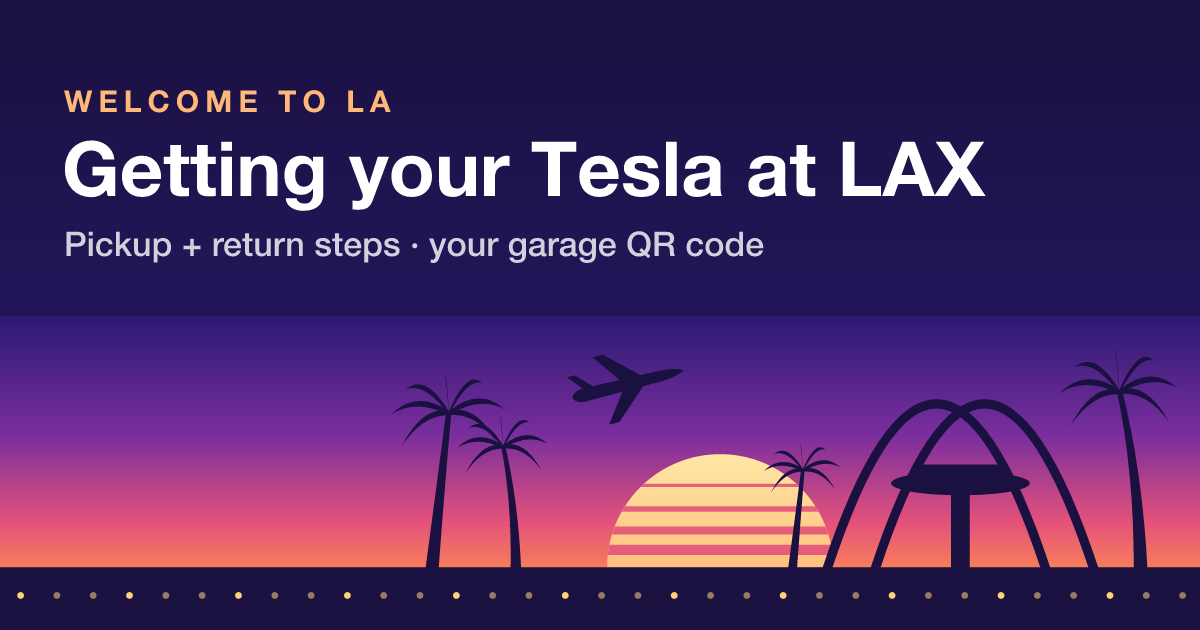
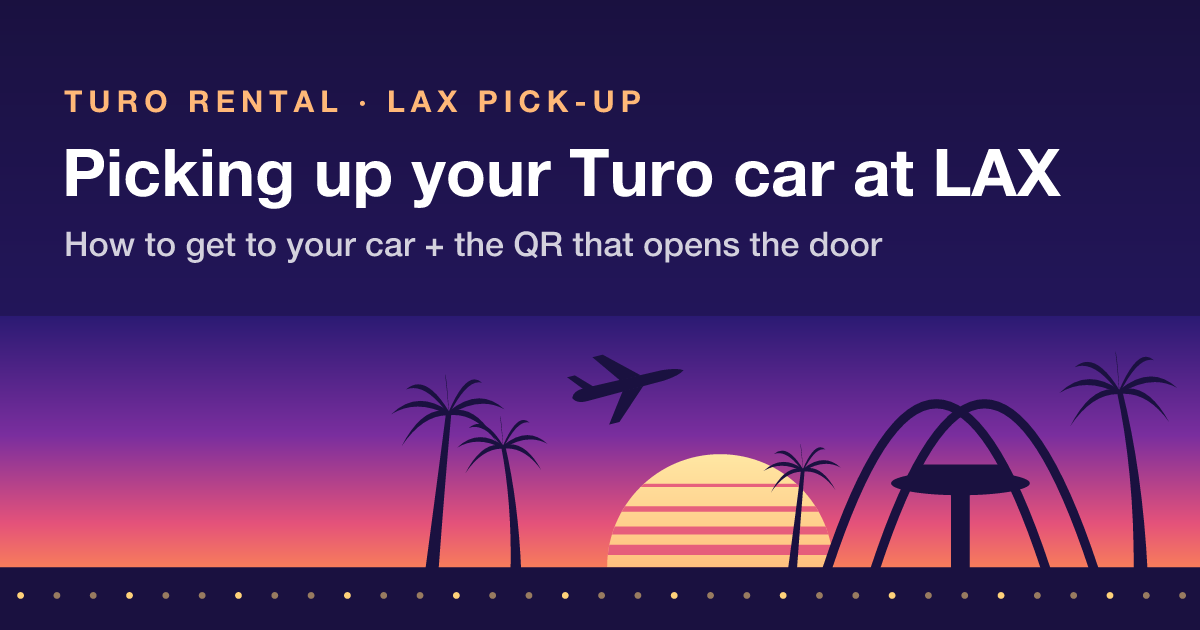
LAX guest page: lead with Turo, plain-English intro, car photo
Title 'Picking up your Turo car at LAX'; intro says what this is in one line;
Blue Steel photo on the trip card; link preview and share sheet say Turo.

Claude-Session: https://claude.ai/code/session_01W4SfZfHrfogFEbRffj4dB8

Changed region(s): [[0.0617, 0.2111, 0.8942, 0.3317], [0.0617, 0.3619, 0.74, 0.4222], [0.0308, 0.1206, 0.555, 0.181]]

diff --git a/lax.html b/lax.html
@@ -4,8 +4,8 @@
     <meta charset="UTF-8" />
     <meta name="viewport" content="width=device-width, initial-scale=1.0, viewport-fit=cover" />
     <meta name="theme-color" content="#2B1A73" />
-    <title>Getting your Tesla at LAX</title>
-    <meta name="description" content="Pickup and return steps for your Turo trip at LAX, plus your garage QR code." />
+    <title>Picking up your Turo car at LAX</title>
+    <meta name="description" content="Your Turo rental is parked in a garage 5 minutes from LAX. Here's how to get there, and the QR code that opens the garage door." />
     <meta name="robots" content="noindex, nofollow" />
 
     <!--
@@ -16,19 +16,19 @@
     -->
     <link rel="icon" type="image/png" sizes="180x180" href="/wallet/lax/apple-touch-icon.png" />
     <link rel="apple-touch-icon" sizes="180x180" href="/wallet/lax/apple-touch-icon.png" />
-    <meta name="apple-mobile-web-app-title" content="LAX Parking" />
+    <meta name="apple-mobile-web-app-title" content="Turo Pick-up" />
 
     <meta property="og:type" content="website" />
-    <meta property="og:site_name" content="LAX Parking" />
-    <meta property="og:title" content="Getting your Tesla at LAX" />
-    <meta property="og:description" content="Pickup and return steps, plus your garage QR code. Add it to Apple or Google Wallet." />
+    <meta property="og:site_name" content="Turo Rental - LAX Pick-up" />
+    <meta property="og:title" content="Picking up your Turo car at LAX" />
+    <meta property="og:description" content="Your Turo rental is parked in a garage 5 minutes from LAX. Here's how to get there, and the QR code that opens the garage door." />
     <meta property="og:image" content="https://www.bestly.tech/wallet/lax/og.png" />
     <meta property="og:image:width" content="1200" />
     <meta property="og:image:height" content="630" />
     <meta property="og:image:alt" content="LA sunset with palm trees and the LAX Theme Building" />
     <meta name="twitter:card" content="summary_large_image" />
-    <meta name="twitter:title" content="Getting your Tesla at LAX" />
-    <meta name="twitter:description" content="Pickup and return steps, plus your garage QR code." />
+    <meta name="twitter:title" content="Picking up your Turo car at LAX" />
+    <meta name="twitter:description" content="Your Turo rental is parked in a garage 5 minutes from LAX. Here's how to get there, and the QR code that opens the garage door." />
     <meta name="twitter:image" content="https://www.bestly.tech/wallet/lax/og.png" />
 
     <link rel="preconnect" href="https://rcqfqhguwpmaarseifqg.supabase.co" crossorigin />

diff --git a/src/pages/LaxGuest.tsx b/src/pages/LaxGuest.tsx
@@ -152,7 +152,7 @@ export default function LaxGuest() {
   return (
     <div className="min-h-screen bg-[#1A1140] text-white" style={{ fontFamily: "Inter, ui-sans-serif, system-ui, -apple-system, sans-serif" }}>
       <Helmet>
-        <title>Getting your Tesla at LAX</title>
+        <title>Picking up your Turo car at LAX</title>
         <meta name="robots" content="noindex, nofollow" />
         <meta name="theme-color" content="#2B1A73" />
         <link rel="apple-touch-icon" href="/wallet/lax/apple-touch-icon.png" />
@@ -161,8 +161,8 @@ export default function LaxGuest() {
       <div className="relative">
         <img src="/wallet/lax/hero.svg" alt="" className="block h-44 w-full object-cover object-[65%_center] sm:h-56" />
         <div className="absolute inset-x-0 top-0 px-5 pt-6 sm:px-8">
-          <p className="text-xs font-semibold uppercase tracking-[0.2em]" style={{ color: PEACH, ...shadow }}>{pub?.trip?.first ? `Hi ${pub.trip.first} · welcome to LA` : "Welcome to LA"}</p>
-          <h1 className="mt-1 text-3xl font-bold tracking-tight sm:text-4xl" style={shadow}>Getting your Tesla at LAX</h1>
+          <p className="text-xs font-semibold uppercase tracking-[0.2em]" style={{ color: PEACH, ...shadow }}>{pub?.trip?.first ? `Hi ${pub.trip.first} · your Turo rental` : "Your Turo rental"}</p>
+          <h1 className="mt-1 text-3xl font-bold tracking-tight sm:text-4xl" style={shadow}>Picking up your Turo car at LAX</h1>
         </div>
       </div>
 
@@ -176,7 +176,7 @@ export default function LaxGuest() {
           </div>
         ) : (
           <>
-            <p className="text-[16px] leading-relaxed text-white/80">Skim before you fly, keep it handy on the curb. Questions any time.</p>
+            <p className="text-[17px] leading-relaxed text-white/85">You rented a <b className="text-white">{pub.guide?.car || "Tesla Model 3"}</b> on <b className="text-white">Turo</b>. It's parked in a garage 5 minutes from LAX. Below: how to get there, and the QR code that opens the garage door.</p>
 
             {pub.trip && <div className="mt-5 space-y-2.5"><TripCard trip={pub.trip} /><CarCard trip={pub.trip} car={pub.car ?? null} /></div>}
             <div className="mt-2.5"><WeatherCard trip={pub.trip ?? null} /></div>

diff --git a/src/pages/admin/LaxGuests.tsx b/src/pages/admin/LaxGuests.tsx
@@ -34,7 +34,7 @@ function GuestRow({ r, reload }: { r: Row; reload: () => void }) {
     reload();
   };
   const link = r.token ? `${SITE}/lax/t/${r.token}` : null;
-  const msg = link ? `Hi ${r.first ?? ""}! Everything for picking up the Tesla at LAX, including the garage QR code (add it to your Apple or Google Wallet): ${link}` : "";
+  const msg = link ? `Hi ${r.first ?? ""}! Here's how to pick up your Turo car at LAX, plus the QR code that opens the garage door (you can add it to Apple or Google Wallet): ${link}` : "";
   const status = r.reminder_sent_at ? `Reminder sent ${when(r.reminder_sent_at)}`
     : r.reminder_error ? `Reminder failed: ${r.reminder_error.replace(/^gave up: /, "")}`
     : r.email && r.reminder_at ? `Reminder ${when(r.reminder_at)}${r.email_by === "guest" ? " (guest signed up)" : ""}`

diff --git a/src/pages/lax/GuestExtras.tsx b/src/pages/lax/GuestExtras.tsx
@@ -34,7 +34,8 @@ function Card({ label, icon, children }: { label: string; icon: ReactNode; child
 
 export function TripCard({ trip }: { trip: Trip }) {
   return (
-    <Card label="Your trip" icon={<Car className="h-3.5 w-3.5" />}>
+    <Card label="Your Turo trip" icon={<Car className="h-3.5 w-3.5" />}>
+      <img src="/wallet/lax/car.jpg" alt="Your Tesla Model 3" className="mb-3 aspect-[16/10] w-full rounded-xl object-cover" />
       <div className="grid grid-cols-2 gap-3 text-[15px]">
         <div><p className="text-xs text-white/55">Pickup</p><p className="font-semibold text-white">{fmtWhen(trip.starts_at)}</p></div>
         <div><p className="text-xs text-white/55">Return</p><p className="font-semibold text-white">{fmtWhen(trip.ends_at)}</p></div>

diff --git a/src/pages/admin/LaxPass.tsx b/src/pages/admin/LaxPass.tsx
@@ -159,7 +159,7 @@ export default function LaxPass() {
   };
 
   const link = st ? `${SITE}/lax/${st.slug}` : "";
-  const message = `Getting your Tesla at LAX: everything you need is on this page — shuttle steps, the garage, and your QR code (add it to your Apple or Google Wallet). ${link}`;
+  const message = `How to pick up your Turo car at LAX: shuttle steps, the garage address, and the QR code that opens the garage door (you can add it to Apple or Google Wallet). ${link}`;
   const cur = st?.current;
   const missing = st && (!cur || !cur.is_this_month);
 
